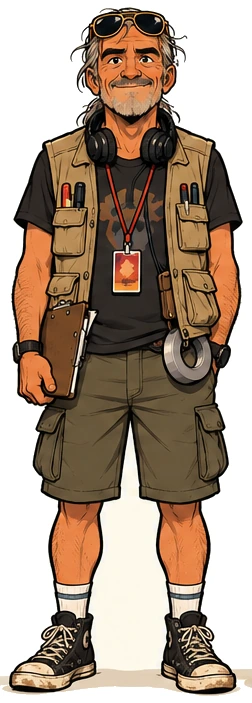
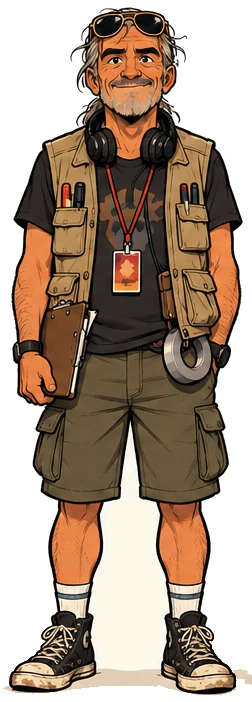
Report Card and Known limits screens, cleaner full-body Gus, Vercel deploy config
- /evals and /limits were empty stubs; both are now reading screens. The Report Card shows
  the real improvement log and says plainly that no Gauntlet run is recorded yet.
- build-stickers drops the floor shadow under the full-body poses.
- vercel.json + api/index.js (Expo's Vercel adapter over dist/server), scripts/serve.mjs
  for any Node host, DEPLOY.md.

Claude-Session: https://claude.ai/code/session_01ANv8Lp8LCnfHaybGjGKWAA

diff --git a/src/app/limits.tsx b/src/app/limits.tsx
@@ -1,5 +1,39 @@
+/** Known limits (FR-28): what Wanted can and can't tell you, said plainly. */
 import { View } from 'react-native';
+import { FeatureCard } from '@/ui/components/core';
+import { DocScreen } from '@/ui/components/DocScreen';
+import { T } from '@/ui/components/T';
+import { Icon } from '@/ui/icons/Icon';
+import type { IconName } from '@/ui/icons/names';
+import { C, S } from '@/ui/theme';
 
-export default function Screen() {
-  return <View style={{ flex: 1, backgroundColor: '#000' }} />;
+const LIMITS: { icon: IconName; title: string; body: string }[] = [
+  { icon: 'people', title: 'Aggregate taste, never people', body: 'Qloo’s heat is affinity across an area, not a count of fans and nothing about any one person. Wanted never shows a headcount or promises a ticket number.' },
+  { icon: 'signature', title: 'Signatures are non-binding', body: 'A signature says “I want this show here”. It isn’t a ticket. The proof ratio compares shares, signatures against predicted heat, never raw counts.' },
+  { icon: 'location', title: 'Coverage varies', body: 'Some cities are data thin for some Sounds. When Qloo has too few cells, Wanted shows nothing rather than guess. Neighborhood lists can include whole counties; very large areas are dropped.' },
+  { icon: 'building', title: 'Rooms and hours come from Qloo', body: 'Room sizes are Gus’s guess, labeled as his. Open days come from Qloo’s place data and can be missing or out of date: check before you book.' },
+  { icon: 'van', title: 'Drive times are estimates', body: 'Straight-line distance × 1.25 at 88 km/h. Good enough to spot a 13-hour haul, not a substitute for a map.' },
+  { icon: 'mic', title: 'Gus answers from the data', body: 'Every number Gus says has to be in the evidence. When a model is down he runs as Gus (lite), deterministic and labeled.' },
+];
+
+export default function Limits() {
+  return (
+    <DocScreen eyebrow="Known limits" title="What Wanted can’t tell you" line="The graph's quiet in places. I won't make stuff up." mood="unimpressed">
+      {LIMITS.map((l) => (
+        <FeatureCard key={l.title} tone="plain">
+          <View style={{ flexDirection: 'row', gap: S.md, alignItems: 'flex-start' }}>
+            <View style={{ width: 36, height: 36, borderRadius: 10, backgroundColor: 'rgba(255,176,0,0.14)', alignItems: 'center', justifyContent: 'center' }}>
+              <Icon name={l.icon} variant="bold" size={19} color={C.amber} />
+            </View>
+            <View style={{ flex: 1, gap: S.xs }}>
+              <T v="headline">{l.title}</T>
+              <T v="subhead" color={C.text2}>
+                {l.body}
+              </T>
+            </View>
+          </View>
+        </FeatureCard>
+      ))}
+    </DocScreen>
+  );
 }

diff --git a/src/app/evals.tsx b/src/app/evals.tsx
@@ -1,5 +1,56 @@
+/**
+ * The Report Card (FR-30c, PRD 16.11). Shows the Gauntlet's holdout results once a run is
+ * recorded; until then it says so, and shows the improvement log (evals/LOG.md) as it stands.
+ */
 import { View } from 'react-native';
+import { FeatureCard } from '@/ui/components/core';
+import { DocScreen, DocSection } from '@/ui/components/DocScreen';
+import { T } from '@/ui/components/T';
+import { C, S } from '@/ui/theme';
 
-export default function Screen() {
-  return <View style={{ flex: 1, backgroundColor: '#000' }} />;
+const LOG: { when: string; title: string; change: string; decision: string }[] = [
+  {
+    when: '23 Oct · Iteration 1',
+    title: 'Heat field',
+    change: 'Heat moved from Qloo’s affinity_rank (saturated near 1 everywhere, so college towns were “sleepers” for every act) to affinity, weighted by each cell’s popularity.',
+    decision: 'Kept. Golden checks hold: Wallen’s top heat is Knoxville, Bad Bunny’s San Juan, Bridgers’ Portland.',
+  },
+  {
+    when: '23 Oct · Iteration 2',
+    title: 'Grounding loopholes and honest marks',
+    change: 'Spelled-out numbers are now checked like digits (prompt gus-v2). City names match case-sensitively. Without Qloo marks have three levels: ok, unverified, wrong; only wrong counts as an error.',
+    decision: 'Kept. Plus county hygiene: localities over 1,200 km² are dropped; point boundaries are read.',
+  },
+];
+
+export default function Evals() {
+  return (
+    <DocScreen eyebrow="Report Card" title="How Gus is graded" line="No holdout run on file yet. When there is one, it goes here, losses and all." mood="reading">
+      <FeatureCard tone="stage">
+        <T v="eyebrow" color="#E3B8FF">
+          The Gauntlet
+        </T>
+        <T v="title2">No run recorded</T>
+        <T v="subhead" color="rgba(235,235,245,0.8)">
+          The Report Card shows Wanted vs a generic LLM vs population, split by small and established acts, with sample sizes. Ties and losses are shown too. Nothing here until a run is recorded.
+        </T>
+      </FeatureCard>
+      <DocSection title="Improvement log">
+        {LOG.map((e) => (
+          <FeatureCard key={e.title} tone="plain">
+            <T v="eyebrow">{e.when}</T>
+            <T v="headline">{e.title}</T>
+            <T v="subhead" color={C.text2}>
+              {e.change}
+            </T>
+            <View style={{ flexDirection: 'row', gap: S.sm }}>
+              <T v="subhead" color={C.good}>
+                {e.decision}
+              </T>
+            </View>
+          </FeatureCard>
+        ))}
+      </DocSection>
+    </DocScreen>
+  );
 }

diff --git a/src/ui/components/DocScreen.tsx b/src/ui/components/DocScreen.tsx
@@ -1,0 +1,46 @@
+/** A plain reading screen (Report Card, Known limits): large title, Gus's take, then sections. */
+import { router } from 'expo-router';
+import Head from 'expo-router/head';
+import type { ReactNode } from 'react';
+import { ScrollView, View } from 'react-native';
+import { useSafeAreaInsets } from 'react-native-safe-area-context';
+import { C, S } from '../theme';
+import { Row } from './core';
+import { GusLine, type GusMood } from './Gus';
+import { SheetButton } from './Sheet';
+import { T } from './T';
+
+export function DocScreen({ title, eyebrow, line, mood = 'reading', children }: { title: string; eyebrow: string; line: string; mood?: GusMood; children: ReactNode }) {
+  const insets = useSafeAreaInsets();
+  return (
+    <View style={{ flex: 1, backgroundColor: C.canvas }}>
+      <Head>
+        <title>{title} · Wanted</title>
+      </Head>
+      <ScrollView contentContainerStyle={{ paddingTop: insets.top + S.sm, paddingBottom: insets.bottom + S.xxxl, paddingHorizontal: S.gutter, gap: S.xl, maxWidth: 680, width: '100%', alignSelf: 'center' }}>
+        <Row style={{ justifyContent: 'space-between', minHeight: 44 }}>
+          <T v="eyebrow" color={C.amber}>
+            {eyebrow}
+          </T>
+          <SheetButton icon="close" label="Close" onPress={() => (router.canGoBack() ? router.back() : router.replace('/'))} />
+        </Row>
+        <T v="largeTitle" accessibilityRole="header">
+          {title}
+        </T>
+        <GusLine line={line} mood={mood} model="gus-lite" />
+        {children}
+      </ScrollView>
+    </View>
+  );
+}
+
+export function DocSection({ title, children }: { title: string; children: ReactNode }) {
+  return (
+    <View style={{ gap: S.sm }}>
+      <T v="title2" accessibilityRole="header">
+        {title}
+      </T>
+      {children}
+    </View>
+  );
+}

diff --git a/api/index.js b/api/index.js
@@ -1,0 +1,8 @@
+/**
+ * Vercel Function that serves Wanted's server output (`expo export -p web`): Expo Router's
+ * API routes and server-rendered pages. Static files in dist/client are served by Vercel first.
+ */
+const path = require('node:path');
+const { createRequestHandler } = require('expo-server/adapter/vercel');
+
+module.exports = createRequestHandler({ build: path.join(__dirname, '../dist/server') });

diff --git a/src/ui/theme.ts b/src/ui/theme.ts
@@ -148,7 +148,7 @@ export const IMAGES = {
 
 /** Sticker aspect ratios (width / height), so a sticker sized by height keeps its die-cut shape. */
 export const STICKER_RATIO = {
-  'sticker-full': 252 / 703,
+  'sticker-full': 252 / 702,
   'sticker-full-3q': 227 / 703,
   'sticker-reading': 301 / 276,
   'sticker-thinking': 285 / 282,

diff --git a/scripts/build-stickers.py b/scripts/build-stickers.py
@@ -60,7 +60,7 @@ def largest_blob(im: Image.Image) -> Image.Image:
     return mask
 
 
-def cutout(im: Image.Image) -> Image.Image:
+def cutout(im: Image.Image, floor: bool = False) -> Image.Image:
     im = im.convert("RGBA")
     w, h = im.size
     px = im.load()
@@ -68,13 +68,21 @@ def cutout(im: Image.Image) -> Image.Image:
     seen = bytearray(w * h)
     q = deque((x, y) for x in range(w) for y in (0, h - 1))
     q.extend((x, y) for y in range(h) for x in (0, w - 1))
+
+    def clear(r: int, g: int, b: int, y: int) -> bool:
+        if abs(r - bg[0]) + abs(g - bg[1]) + abs(b - bg[2]) <= CREAM_TOL * 3:
+            return True
+        # Full-body poses stand on a soft grey floor shadow; in the floor band, drop it too.
+        # The shoes' ink outline stops the fill, so soles and socks stay.
+        return floor and y > h * 0.88 and min(r, g, b) > 150 and max(r, g, b) - min(r, g, b) < 42
+
     while q:
         x, y = q.popleft()
         if x < 0 or y < 0 or x >= w or y >= h or seen[y * w + x]:
             continue
         seen[y * w + x] = 1
         r, g, b, _ = px[x, y]
-        if abs(r - bg[0]) + abs(g - bg[1]) + abs(b - bg[2]) > CREAM_TOL * 3:
+        if not clear(r, g, b, y):
             continue
         px[x, y] = (0, 0, 0, 0)
         q.extend(((x + 1, y), (x - 1, y), (x, y + 1), (x, y - 1)))
@@ -94,7 +102,7 @@ def main():
     OUT.mkdir(parents=True, exist_ok=True)
     sheet = Image.open(SHEET)
     for name, box in CROPS.items():
-        s = cutout(sheet.crop(box))
+        s = cutout(sheet.crop(box), floor=name.startswith("gus-full"))
         s.save(OUT / f"{name}.webp", "WEBP", quality=92, method=6)
         print(name, s.size)
 

diff --git a/DEPLOY.md b/DEPLOY.md
@@ -1,0 +1,27 @@
+# Deploying Wanted
+
+Wanted is an Expo Router app with server output: a static web client plus API routes
+(Qloo, Gus, Fish Audio). It runs on Vercel Functions with Turso for data (PRD 10).
+
+## Vercel
+
+1. Import `wafflebytes/wanted` in Vercel. `vercel.json` sets the build (`expo export -p web`),
+   serves `dist/client` statically and sends everything else to `api/index.js`, which runs
+   Expo's own Vercel adapter over `dist/server`.
+2. Set these environment variables in the Vercel project (never in the repo):
+   - `QLOO_API_KEY`, `OPENROUTER_API_KEY`, `FISH_AUDIO_API_KEY` (and `SETLIST_API_KEY` if used)
+   - `TURSO_DATABASE_URL`, `TURSO_AUTH_TOKEN`: the serverless filesystem is read-only, so the
+     local SQLite file can't be used there.
+   - `WANTED_CONTACT_KEY` (32-byte hex), `WANTED_DEVICE_SALT`, `WANTED_PUBLIC_ORIGIN` (the
+     deployed URL, for share links and OG images).
+3. Seed the Turso database once from a laptop with the same env vars:
+   `npm run seed -- --panel && npm run seed -- --demo`.
+
+Every push to a branch gets a preview URL.
+
+## Any Node host
+
+```
+npx expo export -p web
+node scripts/serve.mjs dist 3000
+```
